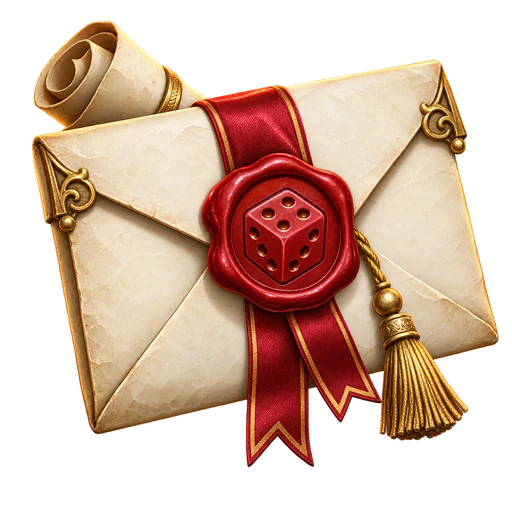
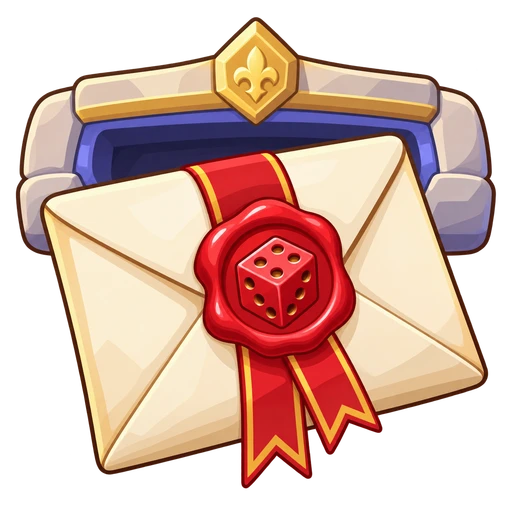
Integrate casual pilot artwork with release audit

diff --git a/docs/art-review/golden-pilot-2026-09-23/index.html b/docs/art-review/golden-pilot-2026-09-23/index.html
@@ -32,23 +32,23 @@
 </head>
 <body>
 <h1>Dicekeep 캐주얼 아트 파일럿</h1>
-<p class="lead">Codex 내장 이미지 생성으로 만든 압축 검토용 미리보기입니다. API 키를 사용하지 않았으며 현재 게임 자산을 교체하지 않았습니다. 작은 크기에서의 판독성과 반복 타일 이음매를 함께 확인해 주세요.</p>
+<p class="lead">Codex 내장 이미지 생성으로 만든 압축 검토용 미리보기입니다. API 키를 사용하지 않았으며 타이틀·기본 1번 타워·우편 아이콘을 게임에 적용했습니다. 나머지 후보는 후속 작업용으로 보존했습니다. 작은 크기에서의 판독성과 반복 타일 이음매를 함께 확인해 주세요.</p>
 
 <h2>타이틀 키아트</h2>
 <div class="pair">
-  <div class="card"><b>기존 세로</b><div class="preview portrait"><img src="../../../ui/title-keyart-p.jpg"></div></div>
+  <div class="card"><b>기존 세로</b><div class="preview portrait"><img src="assets/before/title-keyart-p.jpg"></div></div>
   <div class="card"><b>새 세로 후보</b><div class="preview portrait"><img src="assets/keyart/portrait-candidate-1.webp"></div></div>
 </div>
 <div class="pair" style="margin-top:12px">
-  <div class="card"><b>기존 가로</b><div class="preview landscape"><img src="../../../ui/title-keyart-l.jpg"></div></div>
+  <div class="card"><b>기존 가로</b><div class="preview landscape"><img src="assets/before/title-keyart-l.jpg"></div></div>
   <div class="card"><b>새 가로 후보</b><div class="preview landscape"><img src="assets/keyart/landscape-candidate-1.webp"></div></div>
 </div>
 
 <h2>전장과 유닛</h2>
 <div class="pair three">
   <div class="card"><b>아레나 보드 후보</b><div class="preview"><img src="assets/environment/arena-board-candidate-1.webp"></div><p class="note warning">반복 이음매가 보여 현재 후보는 런타임 적용 불가. 생성 프롬프트는 수정됨.</p></div>
-  <div class="card"><b>1번 타워 후보</b><div class="preview check"><img src="assets/tower/die-1-candidate-1.webp"></div><div class="mini"><figure><img src="assets/tower/die-1-candidate-1.webp" width="48" height="48"><figcaption>48px</figcaption></figure><figure><img src="assets/tower/die-1-candidate-1.webp" width="96" height="96"><figcaption>96px</figcaption></figure></div><p class="note">지붕·배너 장식의 축소 판독을 확인해야 합니다.</p></div>
-  <div class="card"><b>지상 2족 적 후보</b><div class="preview check"><img src="assets/character/ground-biped-candidate-1.webp"></div><div class="mini"><figure><img src="assets/character/ground-biped-candidate-1.webp" width="48" height="48"><figcaption>48px</figcaption></figure><figure><img src="assets/character/ground-biped-candidate-1.webp" width="96" height="96"><figcaption>96px</figcaption></figure></div><p class="note">무릎 방향은 정상. 적용 전 여백과 발 피벗 보정 필요.</p></div>
+  <div class="card"><b>1번 타워 후보</b><div class="preview check"><img src="assets/tower/die-1-candidate-1.webp"></div><div class="mini"><figure><img src="assets/tower/die-1-candidate-1.webp" width="48" height="48"><figcaption>48px</figcaption></figure><figure><img src="assets/tower/die-1-candidate-1.webp" width="96" height="96"><figcaption>96px</figcaption></figure></div><p class="note">기본 a 스킨과 폴백 타워에 적용. 다른 강화 스킨은 유지합니다.</p></div>
+  <div class="card"><b>지상 2족 적 후보</b><div class="preview check"><img src="assets/character/ground-biped-candidate-1.webp"></div><div class="mini"><figure><img src="assets/character/ground-biped-candidate-1.webp" width="48" height="48"><figcaption>48px</figcaption></figure><figure><img src="assets/character/ground-biped-candidate-1.webp" width="96" height="96"><figcaption>96px</figcaption></figure></div><p class="note">무릎 방향은 정상. 적용 보류: 같은 외형의 걷기 프레임과 발 피벗 검증이 필요합니다.</p></div>
 </div>
 
 <h2>UI와 전투 효과</h2>

diff --git a/index.html b/index.html
@@ -9,8 +9,8 @@
 <title>주사위 성채 (Dicekeep)</title>
 <link rel="stylesheet" href="fonts/fonts.css?v=89" />
 <!-- 키아트를 스크립트보다 먼저 받기 시작한다 (세로/가로 중 화면에 맞는 한 장). game.js 는 이 그림이 뜬 뒤에 에셋 로딩을 시작한다 -->
-<link rel="preload" as="image" href="ui/title-keyart-p.jpg?v=91" media="(max-aspect-ratio: 3/4)" fetchpriority="high" />
-<link rel="preload" as="image" href="ui/title-keyart-l.jpg?v=91" media="(min-aspect-ratio: 3001/4000)" fetchpriority="high" />
+<link rel="preload" as="image" href="ui/title-keyart-p.jpg?v=casual1" media="(max-aspect-ratio: 3/4)" fetchpriority="high" />
+<link rel="preload" as="image" href="ui/title-keyart-l.jpg?v=casual1" media="(min-aspect-ratio: 3001/4000)" fetchpriority="high" />
 <link rel="stylesheet" href="style.css?v=116" />
 <link rel="stylesheet" href="rewards.css?v=119" />
 <link rel="stylesheet" href="mail-admin.css?v=117" />
@@ -78,7 +78,7 @@
             <div class="home-record"><img src="ui/icon-trophy.png" alt=""><span><small>나의 도전 기록</small><b id="home-record">첫 도전을 기다리는 중</b></span></div>
             <nav class="home-reward-shortcuts" aria-label="보상 바로가기">
               <button id="btn-rewards-open" class="home-reward" type="button" data-reward-tab="attendance"><img src="ui/rewards/attendance-bag.webp" width="36" height="36" alt=""><span>출석</span><i class="reward-dot" data-reward-dot="attendance" hidden aria-hidden="true"></i></button>
-              <button id="home-mail" class="home-reward" type="button" data-reward-tab="mail"><img src="ui/rewards/mail.webp" width="36" height="36" alt=""><span>우편</span><i class="reward-dot" data-reward-dot="mail" hidden aria-hidden="true"></i></button>
+              <button id="home-mail" class="home-reward" type="button" data-reward-tab="mail"><img src="ui/rewards/mail.webp?v=casual1" width="36" height="36" alt=""><span>우편</span><i class="reward-dot" data-reward-dot="mail" hidden aria-hidden="true"></i></button>
               <button id="home-pass" class="home-reward" type="button" data-reward-tab="pass"><img src="ui/rewards/growth-pass.webp" width="36" height="36" alt=""><span>성장 패스</span><i class="reward-dot" data-reward-dot="pass" hidden aria-hidden="true"></i></button>
             </nav>
             <div class="home-citadel-caption"><span>나의 성채</span><p>다섯 주사위로 지켜내는 성채</p></div>

diff --git a/game.js b/game.js
@@ -863,6 +863,8 @@ if (window.DKCONTENT) {
   // 인피니티 101웨이브 새 그림 (준비된 웨이브만 — content.js INF_ART_READY)
   if (DKCONTENT.INFINITY && DKCONTENT.INFINITY.artList) for (const a of DKCONTENT.INFINITY.artList()) SRCS[a.key] = BASE + a.src;
 }
+// Promoted art keeps its asset path; bypass the previous daily image cache.
+for (const key of ['t1', 'cT1a']) if (SRCS[key]) SRCS[key] += '?v=casual1';
 const A = {};
 let corsBlocked = false;
 
@@ -7434,7 +7436,7 @@ function drawLoading(pr) {
 (async () => {
   // 키아트는 로딩 첫 프레임부터 깔린다 (CSS 가 직접 받아온다 — 에셋 로딩을 기다리면 로딩 화면이 검은 화면이 된다)
   // 키아트(산 위 주사위 성)는 CSS 배경으로만 쓴다 — SRCS 에 넣으면 loadAssets 가 두 방향을 다 내려받는다. CSS 는 미디어 쿼리에 맞는 한 장만 받는다
-  const KEYART = { l: BASE + 'ui/title-keyart-l.jpg?v=91', p: BASE + 'ui/title-keyart-p.jpg?v=91', blur: BASE + 'ui/title-keyart-l-blur.jpg?v=91' };   // ?v= 는 index.html 의 preload href 와 같아야 한다 (같은 URL 이어야 미리 받은 걸 쓴다)   // l·p: 글자 없는 그림(세로·가로 모두 CSS 금박 제목을 얹는다) · blur: 가로 양옆 밑바탕
+  const KEYART = { l: BASE + 'ui/title-keyart-l.jpg?v=casual1', p: BASE + 'ui/title-keyart-p.jpg?v=casual1', blur: BASE + 'ui/title-keyart-l-blur.jpg?v=casual1' };   // ?v= 는 index.html 의 preload href 와 같아야 한다 (같은 URL 이어야 미리 받은 걸 쓴다)   // l·p: 글자 없는 그림(세로·가로 모두 CSS 금박 제목을 얹는다) · blur: 가로 양옆 밑바탕
   document.body.style.setProperty('--keyart-bg', `linear-gradient(rgba(5,4,3,.45), rgba(5,4,3,.7)), url('${KEYART.l}')`);
   document.body.style.setProperty('--keyart-title', `linear-gradient(rgba(5,4,3,.10), rgba(5,4,3,.10) 45%, rgba(5,4,3,.82) 100%), url('${KEYART.l}'), url('${KEYART.blur}')`);   // 가로·데스크톱 타이틀: 그림을 높이에 맞춰 통째로 + 양옆은 흐린 밑바탕, 위에 CSS 제목
   document.body.style.setProperty('--keyart-title-p', `linear-gradient(rgba(5,4,3,.04), rgba(5,4,3,.04) 80%, rgba(5,4,3,.55) 100%), url('${KEYART.p}')`);   // 세로 타이틀: 그림의 돌 제목을 그대로, 맨 아래(버튼 자리)만 살짝

diff --git a/home.css b/home.css
@@ -59,7 +59,7 @@
 .home-currency > span { display: flex; flex-direction: column; min-width: 0; }
 .home-currency small { color: #d0c1a6; font-size: 10px; line-height: 1.3; white-space: nowrap; }
 .home-currency b { font-variant-numeric: tabular-nums; font-size: 14px; line-height: 1.45; color: #f6e6c5; white-space: nowrap; overflow: hidden; text-overflow: ellipsis; }
-.home-citadel { position: relative; isolation: isolate; overflow: hidden; flex: 1 0 200px; min-height: 200px; border: 1px solid #716045; border-radius: 11px 11px 4px 4px; background: #292a25 url('ui/title-keyart-p.jpg') center 30% / cover no-repeat; box-shadow: inset 0 0 32px #08070540; }
+.home-citadel { position: relative; isolation: isolate; overflow: hidden; flex: 1 0 200px; min-height: 200px; border: 1px solid #716045; border-radius: 11px 11px 4px 4px; background: #292a25 url('ui/title-keyart-p.jpg?v=casual1') center 30% / cover no-repeat; box-shadow: inset 0 0 32px #08070540; }
 .home-citadel::before { content: ''; position: absolute; inset: 0; z-index: -1; background: linear-gradient(180deg, #13100c66, transparent 45%, #15110de6); pointer-events: none; }
 .home-record { position: absolute; top: 11px; left: 10px; max-width: calc(100% - 94px); display: flex; align-items: center; gap: 4px; filter: drop-shadow(0 1px 2px #090705); }
 .home-record img { width: 29px; height: 29px; object-fit: contain; }

diff --git a/rewards-ui.js b/rewards-ui.js
@@ -10,7 +10,7 @@
   const number = value => Math.max(0, Number(value) || 0).toLocaleString('ko-KR');
   const artwork = { attendance: 'attendance-bag', mail: 'mail', pass: 'growth-pass' };
   function art(name, className = '') {
-    const image = el('img', 'rw-art ' + className); image.src = 'ui/rewards/' + name + '.webp'; image.alt = ''; image.width = 512; image.height = 512; image.draggable = false; return image;
+    const image = el('img', 'rw-art ' + className); image.src = 'ui/rewards/' + name + '.webp' + (name === 'mail' ? '?v=casual1' : ''); image.alt = ''; image.width = 512; image.height = 512; image.draggable = false; return image;
   }
   function help(title, detail) {
     const key = state.tab + ':' + title, box = el('details', 'rw-help'); box.open = state.helpOpen.has(key);

diff --git a/tools/art-review/casual-pilot-2026-09-23/README.md b/tools/art-review/casual-pilot-2026-09-23/README.md
@@ -1,0 +1,30 @@
+# Casual pilot integration — 2026-09-23
+
+PR #43's release audit is the integration base. Its lossless WebP assets,
+account deletion, chat moderation, CI and native extreme-art cache are retained.
+
+Built-in Codex ImageGen source PNGs are preserved here, outside the mobile and
+web deployment payload. `source-manifest.json` records the original generation
+snapshot and hashes; `promotion.json` records the subsequent runtime promotion.
+No API key was used. A model snapshot is not asserted.
+
+## Applied
+
+- Portrait/landscape title art and a matching blurred backdrop.
+- Tower 1 default `a` skin and its fallback. Other tower skins remain as before.
+- Mail reward icon.
+
+The tower's animation code and gameplay values are unchanged. Runtime output
+sizes are reduced for mobile. The gallery preserves the old title images so
+its before/after comparison remains meaningful after replacement.
+
+## Preserved for follow-up
+
+- Pig warrior: needs matching walk frames and foot-pivot validation. Replacing
+  only the still would leave the old character visible while walking.
+- Muzzle flash: needs directional origin/rotation validation in the renderer.
+- Arena board: rejected because its repeating edges are visible.
+
+Run `node tools/promote-casual-pilot.mjs` from the repository root to reproduce
+the promoted images, then `npm run art:manifest` and `npm run test:art-pipeline`.
+The original runtime artwork remains recoverable from git before this commit.
